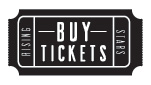
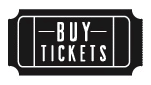
migrations, and buy button

diff --git a/public/stylesheets/style.css b/public/stylesheets/style.css
@@ -38,6 +38,13 @@ a.viewsox { float: right; padding: 2px 0; margin: 0 0 0 0;
   text-decoration: none; font-size: 0.9em; text-align: left; }
 a.viewsox:hover { background:url(/images/sox.jpg) no-repeat 0 0; opacity: 0.9;}
 
+#purchaseView{width:150px; height:85px; position:relative; margin:0 auto; padding:15px;}
+
+a.purchase { float: right; padding: 2px 0; margin: 0 0 0 0; 
+  background:url(/images/buy.jpg) no-repeat 0 0;  color: #4C2516; width:150px; height:85px; opacity: 0.5; border-radius:25px;
+  text-decoration: none; font-size: 0.9em; text-align: left; }
+a.purchase:hover { background:url(/images/buy.jpg) no-repeat 0 0; opacity: 0.9;}
+
 /* MENU PANEL*/
 #topPanel ul{display:block; width:732px; height:36px; position:absolute; top:0; right:0; margin:11px 0 0; padding:0 29px 0 0; border-bottom:1px solid #AEAEAE;}
 #topPanel ul li{float:right; font:12px/36px "Trebuchet MS",Arial, Helvetica, sans-serif; font-weight:bold;}

diff --git a/db/migrate/20120228034427_add_opposing_team.rb b/db/migrate/20120228034427_add_opposing_team.rb
@@ -1,0 +1,17 @@
+class AddOpposingTeam < ActiveRecord::Migration
+    def self.up
+      create_table :opposing_teams do |t|
+        t.integer "team_id"
+        t.string "name"
+        t.string "location"
+        t.integer "sport_id"
+        t.boolean "visible", :default => false
+        t.timestamps
+      end
+      add_index("opposing_teams", "team_id")
+    end
+
+    def self.down
+      drop_table :opposing_teams
+    end
+  end

diff --git a/db/migrate/20120228034348_alter_teams_sport.rb b/db/migrate/20120228034348_alter_teams_sport.rb
@@ -1,0 +1,9 @@
+class AlterTeamsSport < ActiveRecord::Migration
+  def up
+    add_column("teams", "sport_id", :integer)
+  end
+
+  def down
+    remove_column("teams", "sport_id")
+  end
+end
